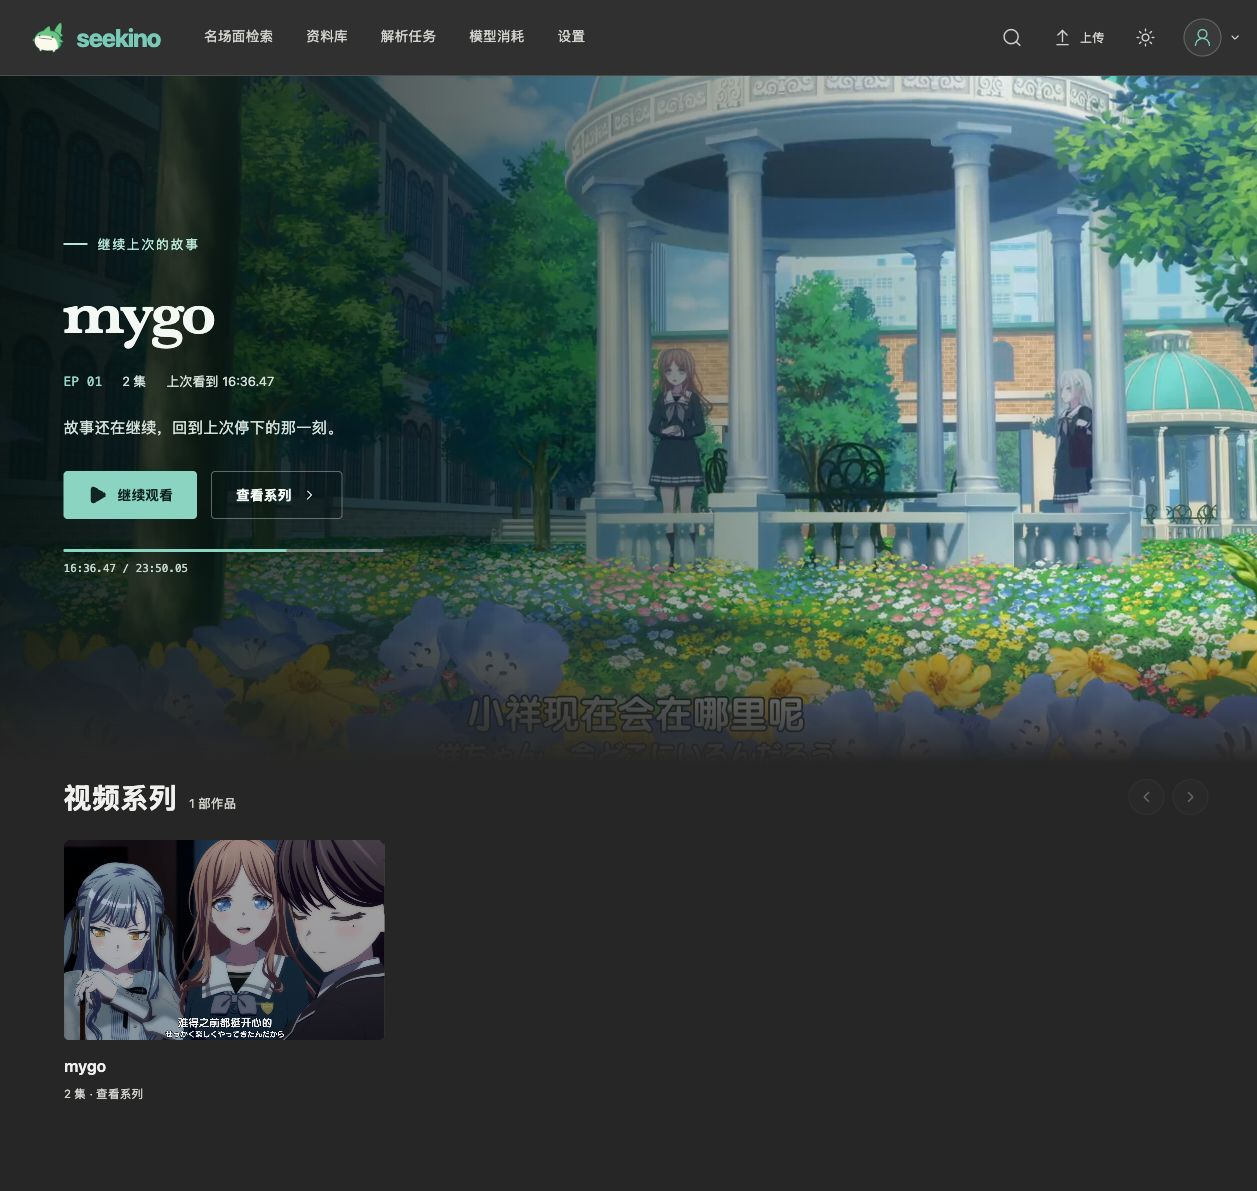
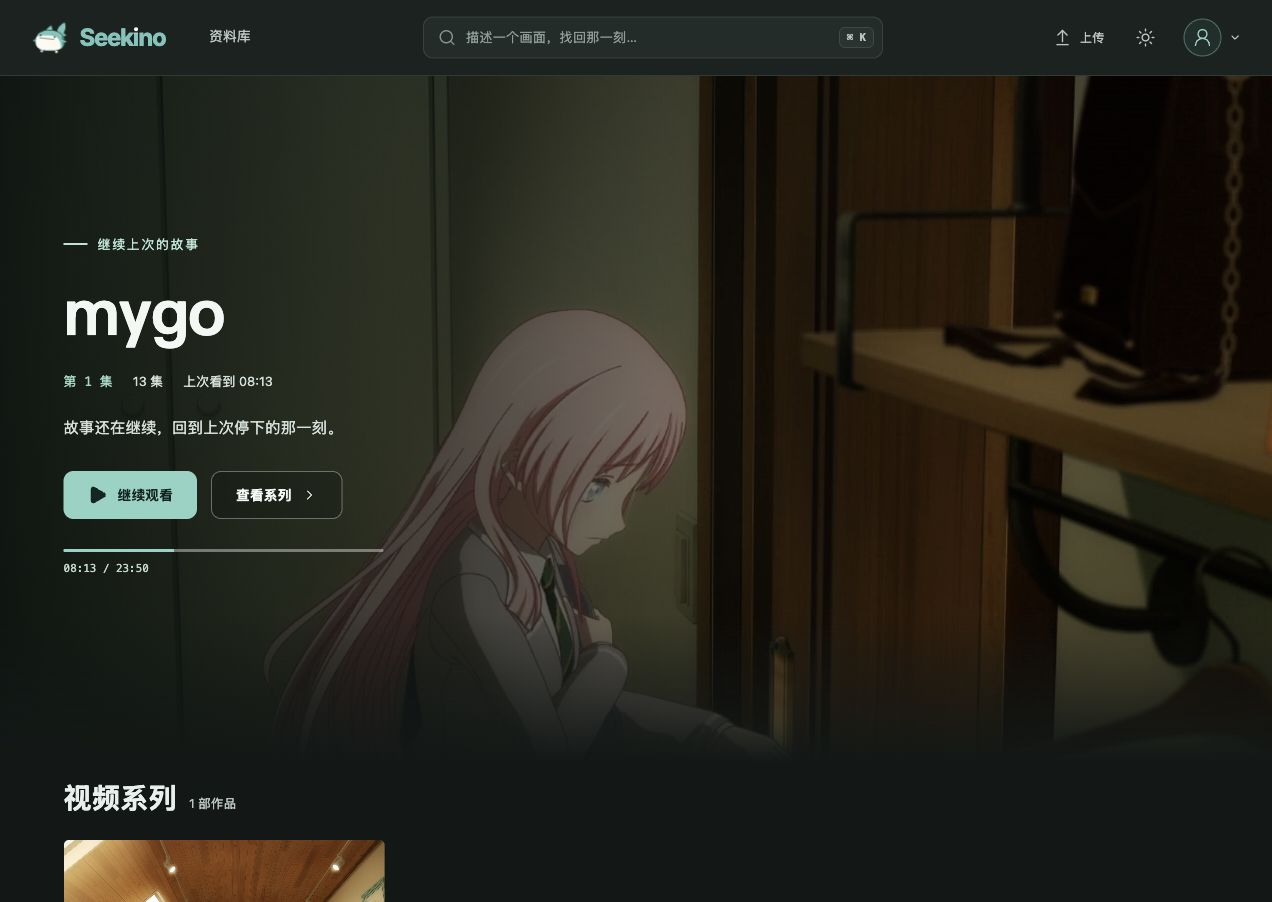
docs: refresh README screenshots and real usage examples

diff --git a/README.md b/README.md
@@ -8,34 +8,72 @@
 
 <p align="center">
   <a href="#实机截图">实机截图</a> ·
+  <a href="#实际使用">实际使用</a> ·
   <a href="#能做什么">能做什么</a> ·
   <a href="#快速开始">快速开始</a> ·
   <a href="#仓库与文档入口">开发文档</a>
 </p>
 
-Seekino（原 AniVAG）把视频观看、自然语言检索和带时间证据的问答放在一起。导入自己的视频系列，描述记得的画面、动作或人物关系，就能寻找相关片段；观看时也可以询问当前画面和刚才的对白，再沿着回答回到原片核对。动画名场面是目前的首个应用场景。
+Seekino（原 AniVAG）是一个可自托管的视频观看与检索助手。导入自己的视频系列，描述记得的画面、动作或人物关系，找到相关片段；观看时打开侧栏，询问当前画面和刚才的对白，再沿着回答回到原片核对。
+
+目前已用于 **MyGO 动画的观看问答、跨集名场面检索和创作素材整理**。从继续观看、系列选集，到对话、片段预览和证据核对，这些操作都可以在同一套 Web 界面中完成。
 
 ## 实机截图
 
-以下截图于 **2026-10-12** 取自本机运行的 Seekino，观看问答展示已有的真实对话记录。
+以下截图于 **2026-10-15** 取自本机运行的 Seekino，使用真实视频与已有对话记录。界面采用青绿色视觉与日/夜主题，下面展示夜间模式。
 
 ### 看到哪里，问到哪里
 
-在播放器旁打开 Chat，围绕当前画面和剧情对话。提问会携带当前集与暂停位置，观看与问答共用一个页面。
+播放器与「边看边聊」侧栏并排展示。提问携带当前集与暂停位置，回答中的当前视频时间可以点击跳转；人物、对白和剧情解释都能对照原片查看。
 
 ![Seekino 实机截图：视频播放器与观看问答侧栏](assets/screenshots/watch-chat.jpg)
 
+### 从一句描述，到可以播放的片段
+
+在对话中跨集寻找场景，展开结果即可播放片段、查看选择理由、原始证据与前后语境，也可以回到整集或引用片段继续追问。
+
+![Seekino 实机截图：跨集检索结果、片段播放器与选择理由](assets/screenshots/search-results.jpg)
+
+<details>
+<summary>更多界面：继续观看与系列选集</summary>
+
 ### 回到上次停下的故事
 
-从观看首页浏览视频系列、查看作品和集数，也可以通过继续观看入口回到上次的播放位置。
+观看首页以视频画面呈现最近观看的作品，保留集数和播放进度，一次点击继续观看。
 
 ![Seekino 实机截图：视频观看首页与继续观看入口](assets/screenshots/watch-home.jpg)
 
 ### 按系列浏览与选集
 
-查看系列介绍、人物与剧情背景，浏览集数列表，选择一集开始播放或继续上次观看。
+浏览系列与剧集列表，选择一集开始播放或继续上次观看。管理者还可以查看供模型解析参考的人物与背景资料。
 
 ![Seekino 实机截图：系列介绍、背景资料与选集](assets/screenshots/series.jpg)
+
+</details>
+
+## 实际使用
+
+### 观看时，确认人物与正在发生的事
+
+在 MyGO 第 1 集 **10:38** 暂停，提问「他们在干嘛？这些都是谁？」。已有对话围绕音乐教室里的祥子与爱音展开，结合当前画面和附近对白解释人物身份、交谈内容，并区分暂停帧里的人与画面外的对话者。上方观看截图展示的就是这条记录。
+
+### 按想看的感觉，找跨集演出片段
+
+实际提问：「**MyGO 里面有哪些特别燃的演出场面？推荐 3 段，说说为什么燃。**」
+
+这次回答给出了三段不同侧重的演出，并附上推荐理由和可播放片段：
+
+| 原片位置 | 这次回答的推荐侧重 |
+| --- | --- |
+| 第 10 集 · 20:01–20:54 | 含泪合奏，人物之间的情感回应。 |
+| 第 12 集 · 09:00–09:50 | 乐器演奏、舞台动作与观众互动带来的现场感。 |
+| 第 12 集 · 15:00–15:59 | 成员微笑合奏、一起继续向前的情绪。 |
+
+上方检索截图展示了这次回答的三个片段。时间对应本机视频版本；推荐理由是助手对内容的解释，可以打开原片自行判断。
+
+### 从检索片段，延伸到短片素材
+
+已有一次《春日影》主题的创作实验：将 MyGO 第 2、3 集的三个检索片段整理成保留原片时间、选择依据与字幕的素材包，再通过 HyperFrames 编排为 **1080 × 1920 的离线 HTML 短片**。这项实践通过独立的素材整理与打包流程完成，可参考[短片创作实验工作流](.agents/skills/anivag-short-video/SKILL.md)；相关脚本与配置需按当前接口核对后使用。
 
 ## 能做什么
 
@@ -56,10 +94,10 @@ Seekino（原 AniVAG）把视频观看、自然语言检索和带时间证据的
 
 1. 在「资料库」创建动画系列，填写简介、语音语言与人物/剧情背景；背景支持 Markdown、JSON 和参考图片。
 2. 上传视频，在上传面板查看传输进度。刷新后续传应重新选择原文件；解析失败后的重试使用「解析任务」页入口。
-3. 在「解析任务」查看完整建库状态。重试、重新解析、删除是否可用，以服务端当前能力和版本为准。
-4. 在「视频观看」选集播放，打开 Chat 询问当前画面、人物或刚才的对白。交互会暂停视频，并随问题冻结当前视频与播放位置。
-5. 在「名场面检索」选择系列跨集提问，点击答案中的视频片段核对原片；可查看证据与前后语境，再引用片段追问。
-6. 在「模型消耗」查看已记录 Token，在「设置」调整后续消息的运行参数。
+3. 从右上角账号菜单进入「解析任务」，查看完整建库状态。重试、重新解析、删除是否可用，以服务端当前能力和版本为准。
+4. 在观看首页选集播放，打开「边看边聊」询问当前画面、人物或刚才的对白。交互会暂停视频，并随问题冻结当前视频与播放位置。
+5. 点击顶部搜索入口，或按 `⌘ K` / `Ctrl K` 打开检索，选择系列跨集提问。点击答案中的视频片段核对原片，查看证据与前后语境，再引用片段追问。
+6. 从账号菜单进入「模型消耗」查看已记录 Token；有权限时可进入「设置」，调试展示模式下可调整后续消息的运行参数。
 
 ## 快速开始
 
